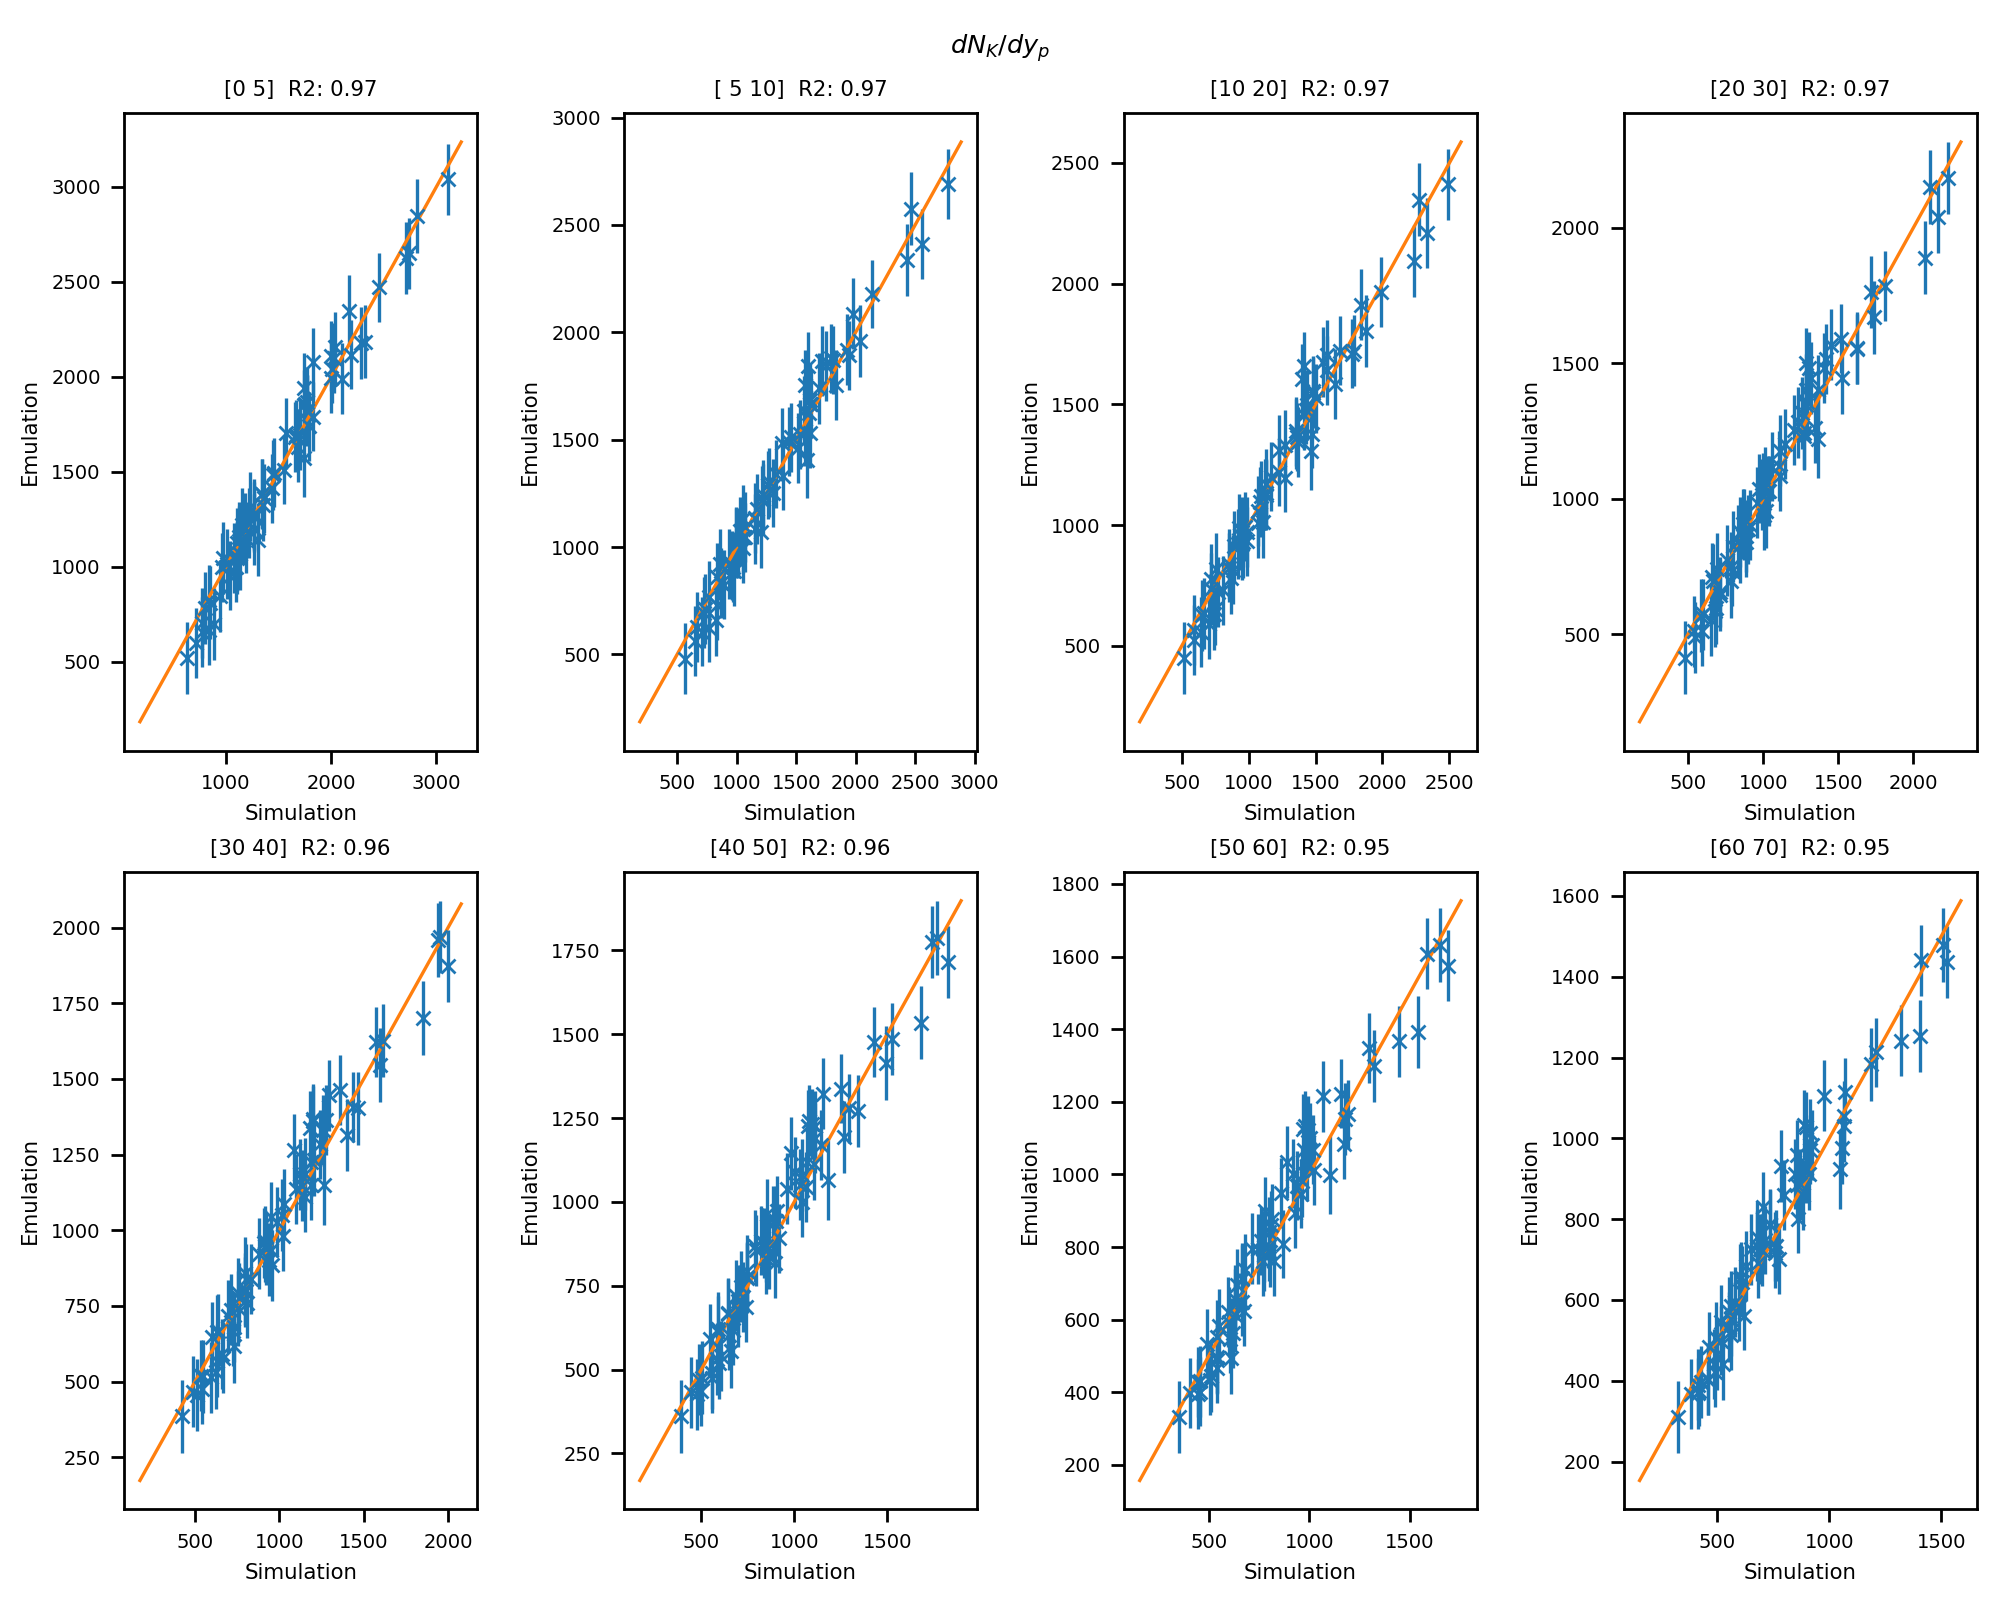
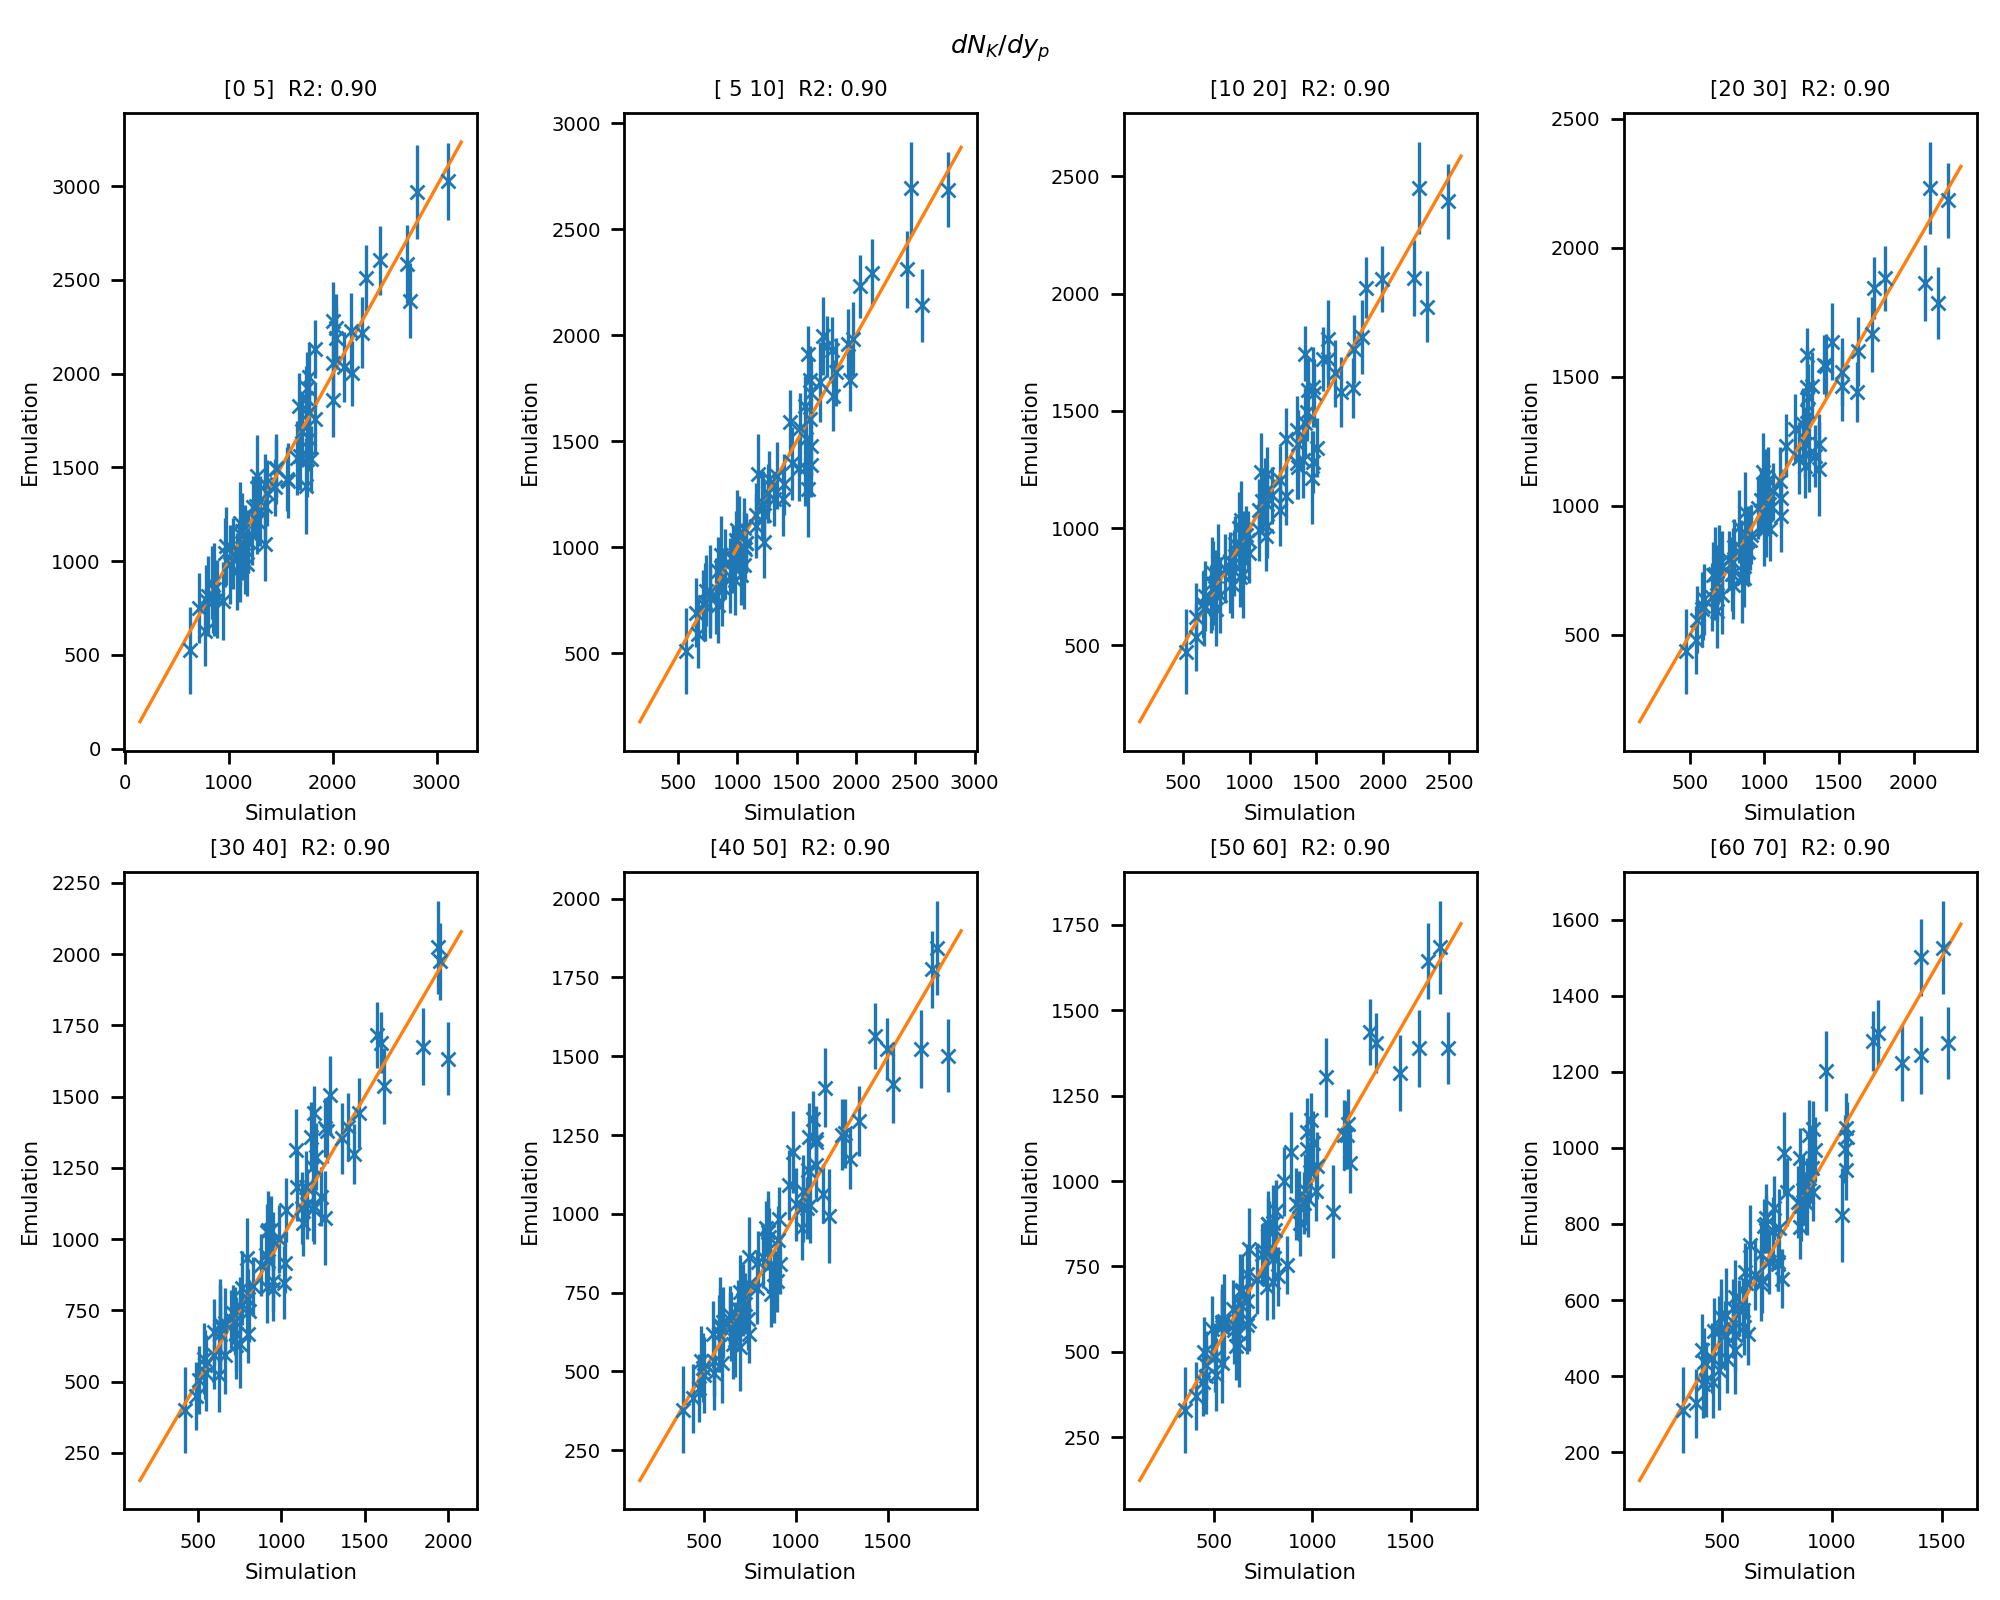
Including 2 benchmark scripts to compare Dan's PCGP and surmise's PCGP
Note: surmise's developsk branch is to develop PCSK, and it also includes PCGPR (PC GP with Dan's GP package)

diff --git a/vah_design/emulation/plotting.py b/vah_design/emulation/plotting.py
@@ -1,0 +1,125 @@
+#!/usr/bin/env python3
+# -*- coding: utf-8 -*-
+"""
+Created on Fri Feb 25 21:20:08 2022
+
+@author: ozgesurer
+"""
+import numpy as np
+from sklearn import metrics
+import uncertainty_toolbox as uct
+import seaborn as sns
+import matplotlib.pyplot as plt
+import sklearn
+
+# 8 bins
+ALICE_cent_bins = np.array([[0,5],[5,10],[10,20],[20,30],[30,40],[40,50],[50,60],[60,70]])
+
+obs_cent_list = {
+'Pb-Pb-2760': {
+    'dNch_deta' : ALICE_cent_bins,
+    'dET_deta' : np.array([[0, 2.5], [2.5, 5], [5, 7.5], [7.5, 10],
+                           [10, 12.5], [12.5, 15], [15, 17.5], [17.5, 20],
+                           [20, 22.5], [22.5, 25], [25, 27.5], [27.5, 30],
+                           [30, 32.5], [32.5, 35], [35, 37.5], [37.5, 40],
+                           [40, 45], [45, 50], [50, 55], [55, 60],
+                           [60, 65], [65, 70]]), # 22 bins
+    'dN_dy_pion'   : ALICE_cent_bins,
+    'dN_dy_kaon'   : ALICE_cent_bins,
+    'dN_dy_proton' : ALICE_cent_bins,
+    'dN_dy_Lambda' : np.array([[0,5],[5,10],[10,20],[20,40],[40,60]]), # 5 bins
+    'dN_dy_Omega'  : np.array([[0,10],[10,20],[20,40],[40,60]]), # 4 bins
+    'dN_dy_Xi'     : np.array([[0,10],[10,20],[20,40],[40,60]]), # 4 bins
+    'mean_pT_pion'   : ALICE_cent_bins,
+    'mean_pT_kaon'   : ALICE_cent_bins,
+    'mean_pT_proton' : ALICE_cent_bins,
+    'pT_fluct' : np.array([[0,5],[5,10],[10,15],[15,20], [20,25],[25,30],[30,35],[35,40], [40,45],[45,50],[50,55],[55,60]]), #12 bins
+    'v22' : ALICE_cent_bins,
+    'v32' : np.array([[0,5],[5,10],[10,20],[20,30], [30,40],[40,50]]), # 6 bins
+    'v42' : np.array([[0,5],[5,10],[10,20],[20,30], [30,40],[40,50]]), # 6 bins
+    }
+}
+
+obs_groups = {'yields' : ['dN_dy_pion', 'dN_dy_kaon', 'dN_dy_proton', 'dNch_deta', 'dET_deta'],
+              'mean_pT' : ['mean_pT_pion', 'mean_pT_kaon','mean_pT_proton', ],
+              'flows' : ['v22', 'v32', 'v42'],
+              'fluct' : ['pT_fluct']}
+
+obs_group_labels = {'yields' : r'$dN_\mathrm{id}/dy_p$, $dN_\mathrm{ch}/d\eta$, $dE_T/d\eta$ [GeV]',
+                    'mean_pT' : r'$ \langle p_T \rangle_\mathrm{id}$' + ' [GeV]',
+                    'fluct' : r'$\delta p_{T,\mathrm{ch}} / \langle p_T \rangle_\mathrm{ch}$',
+                    'flows' : r'$v^{(\mathrm{ch})}_k\{2\} $'}
+
+colors = ['b', 'g', 'r', 'c', 'm', 'tan', 'gray']
+
+obs_tex_labels = {'dNch_deta' : r'$dN_\mathrm{ch}/d\eta$',
+                  'dN_dy_pion' : r'$dN_{\pi}/dy_p$',
+                  'dN_dy_kaon' : r'$dN_{K}/dy_p$',
+                  'dN_dy_proton' : r'$dN_{p}/dy_p$',
+                  'dET_deta' : r'$dE_{T}/d\eta$',
+
+                  'mean_pT_proton' : r'$\langle p_T \rangle_p$',
+                  'mean_pT_kaon' : r'$\langle p_T \rangle_K$',
+                  'mean_pT_pion' : r'$\langle p_T \rangle_\pi$',
+
+                  'pT_fluct' : None,
+                  'v22' : r'$v^{(\mathrm{ch})}_2\{2\}$',
+                  'v32' : r'$v^{(\mathrm{ch})}_3\{2\}$',
+                  'v42' : r'$v^{(\mathrm{ch})}_4\{2\}$'}
+
+def plot_UQ(f, fhat, sigmahat, method='PCGP'):
+
+    index={}
+    st_index=0
+    for obs_group in  obs_groups.keys():
+        for obs in obs_groups[obs_group]:
+            n_centrality = len(obs_cent_list['Pb-Pb-2760'][obs])
+            index[obs]=[st_index,st_index+n_centrality]
+            st_index = st_index + n_centrality
+    
+    
+    r = metrics.r2_score(fhat.flatten(), f.flatten())
+    print('R2 test(sklearn) = ',r)
+    
+    
+    sns.set_context('paper', font_scale=0.8)
+    for obs in index.keys():
+        st = index[obs][0]
+        ed = index[obs][1]
+        nrw = int(np.ceil((ed-st)/4))
+        fig, axs = plt.subplots(nrows=nrw, ncols=4, figsize=(10, nrw*4), sharex=True, sharey=True)
+        for iii,ax in enumerate(axs.flatten()):
+            if iii>=ed-st:
+                continue;
+            ii = st + iii
+            mse = sklearn.metrics.mean_squared_error(f[:, ii], fhat[:, ii])
+            r = sklearn.metrics.r2_score(f[:, ii], fhat[:, ii])
+            uct.plot_calibration(fhat[:, ii], sigmahat[:, ii], f[:, ii], ax=ax)
+            cen_st = obs_cent_list['Pb-Pb-2760'][obs][iii]
+            ax.set_title(f'{cen_st}  R2: {r:.2f}')
+        fig.suptitle(obs_tex_labels[obs])
+        plt.tight_layout()
+        plt.savefig(f'{method}/{obs}.png', dpi=200)
+    
+    sns.set_context('paper', font_scale=0.8)
+    for obs in index.keys():
+        st = index[obs][0]
+        ed = index[obs][1]
+        nrw = int(np.ceil((ed-st)/4))
+        fig, axs = plt.subplots(nrows=nrw, ncols=4, figsize=(10, nrw*4), sharex=False, sharey=False)
+        for iii,ax in enumerate(axs.flatten()):
+            if iii>=ed-st:
+                continue;
+            ii=st+iii
+            mse = sklearn.metrics.mean_squared_error(f[:, ii], fhat[:, ii])
+            ax.errorbar(x=f[:,ii], y=fhat[:,ii], yerr=sigmahat[:, ii], fmt='x')
+            min_value = min([ax.get_xlim()[0], ax.get_ylim()[0]])
+            max_value = min([ax.get_xlim()[1], ax.get_ylim()[1]])
+            ax.plot([min_value, max_value], [min_value, max_value])
+            ax.set_xlabel('Simulation')
+            ax.set_ylabel('Emulation')
+            cen_st = obs_cent_list['Pb-Pb-2760'][obs][iii]
+            ax.set_title(f'{cen_st}  R2: {r:.2f}')
+        fig.suptitle(obs_tex_labels[obs])
+        plt.tight_layout()
+        plt.savefig(f'{method}/{obs}_emu_sim.png', dpi=200)

diff --git a/vah_design/emulation/split_data.py b/vah_design/emulation/split_data.py
@@ -1,0 +1,89 @@
+#!/usr/bin/env python3
+# -*- coding: utf-8 -*-
+"""
+Created on Fri Feb 25 23:30:06 2022
+
+@author: ozgesurer
+"""
+import numpy as np
+import seaborn as sns
+import pandas as pd
+import matplotlib.pyplot as plt
+from load import simulation
+
+def generate_split_data():
+# Load simulation data
+    simulation_files = ['mean_for_300_sliced_200_events_design',
+                        'mean_for_90_sliced_test_design_800_events_design',
+                        'mean_for_90_add_batch0_800_events_design',
+                        'mean_for_90_add_batch1_800_events_design',
+                        'mean_for_75_batch0_design_1600_events_design']
+    
+    df_list = [simulation(file) for file in simulation_files]
+    
+    # Map the design names to proper form
+    model_param_dsgn = ['$N$[$2.76$TeV]',
+                        '$p$',
+                        '$w$ [fm]',
+                        '$d_{\\mathrm{min}}$ [fm]',
+                        '$\\sigma_k$',
+                        '$T_{\\mathrm{sw}}$ [GeV]',
+                        '$T_{\\eta,\\mathrm{kink}}$ [GeV]',
+                        '$(\\eta/s)_{\\mathrm{kink}}$',
+                        '$a_{\\eta,\\mathrm{low}}$ [GeV${}^{-1}$]',
+                        '$a_{\\eta,\\mathrm{high}}$ [GeV${}^{-1}$]',
+                        '$(\\zeta/s)_{\\max}$',
+                        '$T_{\\zeta,c}$ [GeV]',
+                        '$w_{\\zeta}$ [GeV]',
+                        '$\\lambda_{\\zeta}$',
+                        '$R$']
+    
+    # Check the failure rates for each simulation file
+    N = 5
+    sns.set_context('paper', font_scale=0.8)
+    fig, ax = plt.subplots(1,N, figsize=(20,5))
+    for i in range(0, N):
+        sns.histplot(df_list[i].events, x='nevents', binwidth=10 , ax=ax[i])
+        ax[i].set_title(label=i)
+    plt.show()
+    
+    # Allowed error rate for events per design as a percentage
+    error_rate = 5
+    
+    # Split of simulation data into trainig and testing
+    train = [0, 2, 3, 4]
+    test = [1]
+    
+    f_train, f_er_train, theta_train = pd.DataFrame(), pd.DataFrame(), pd.DataFrame()
+    f_test, f_er_test, theta_test = pd.DataFrame(), pd.DataFrame(), pd.DataFrame()
+    
+    for i in range(0, N):
+        df = df_list[i].combine(error_rate)
+        if i in train:
+            f_train = pd.concat([f_train, df.iloc[:,17:140]], axis=0)
+            f_er_train = pd.concat([f_er_train, df.iloc[:,140:]], axis=0)
+            theta_train = pd.concat((theta_train, df.iloc[:,2:17]), axis=0)
+        elif i in test:
+            f_test = pd.concat([f_test, df.iloc[:,17:140]], axis=0)
+            f_er_test = pd.concat([f_er_test, df.iloc[:,140:]], axis=0)
+            theta_test = pd.concat((theta_test, df.iloc[:,2:17]), axis=0)
+    
+    # Print the shape of the data arrays
+    [print(dat.shape) for dat in [f_train, f_er_train, theta_train, f_test, f_er_test, theta_test]]
+    
+    # Load experimental data
+    experiment = pd.read_csv(filepath_or_buffer="../HIC_experimental_data/PbPb2760_experiment", index_col=0)
+    
+    # Gather what type of experimental data do we have.
+    exp_label = []
+    for i in experiment.columns:
+        words = i.split('[')
+        exp_label.append(words[0] + '_['+words[1])
+    
+    # Only keep simulation data that we have corresponding experimental data
+    f_train = np.array(f_train[exp_label])
+    f_test = np.array(f_test[exp_label])
+    theta_train = np.array(theta_train)
+    theta_test = np.array(theta_test)
+    
+    return f_train, f_test, theta_train, theta_test

diff --git a/vah_design/emulation/PCGPR_benchmark.py b/vah_design/emulation/PCGPR_benchmark.py
@@ -1,0 +1,51 @@
+#!/usr/bin/env python3
+# -*- coding: utf-8 -*-
+"""
+Created on Fri Feb 25 17:29:55 2022
+
+@author: ozgesurer
+"""
+import os
+import pickle
+import numpy as np
+import time
+from split_data import generate_split_data
+from surmise.emulation import emulator
+from plotting import plot_UQ
+
+####################################################
+# Note: This script takes on avg. 460 sec.
+####################################################
+seconds_st = time.time()
+
+# Note: Here we can create different funcs to split data into training and test
+f_train, f_test, theta_train, theta_test = generate_split_data()
+
+print(f_train.shape)
+print(f_test.shape)
+
+
+prior_min = [10, -0.7, 0.5, 0, 0.3, 0.135, 0.13, 0.01, -2, -1, 0.01, 0.12, 0.025, -0.8, 0.3]
+prior_max = [30, 0.7, 1.5, 1.7, 2, 0.165, 0.3, 0.2, 1, 2, 0.25, 0.3, 0.15, 0.8, 1]
+prior_dict = {'min': prior_min, 'max': prior_max}
+
+x_np = np.arange(0, f_train.shape[1])[:, None]
+x_np = x_np.astype('object')
+
+emu_tr = emulator(x=x_np,
+                  theta=theta_train,
+                  f=f_train.T,
+                  method='PCGPR',
+                  args={'epsilon': 0.1,
+                        'prior': prior_dict})
+
+
+pred_test = emu_tr.predict(x=x_np, theta=theta_test)
+pred_test_mean = pred_test.mean()
+pred_test_var = pred_test.var()
+
+plot_UQ(f_test, pred_test_mean.T, np.sqrt(pred_test_var.T), method='PCGPR')
+# print(emu_tr._info['emulist'])
+
+seconds_end = time.time()
+print('Total time:', seconds_end - seconds_st)

diff --git a/vah_design/emulation/PCGP_benchmark.py b/vah_design/emulation/PCGP_benchmark.py
@@ -1,0 +1,49 @@
+#!/usr/bin/env python3
+# -*- coding: utf-8 -*-
+"""
+Created on Fri Feb 25 17:29:55 2022
+
+@author: ozgesurer
+"""
+import os
+import pickle
+import numpy as np
+import time
+from split_data import generate_split_data
+from surmise.emulation import emulator
+from plotting import plot_UQ
+import pyximport
+pyximport.install(setup_args={"include_dirs":np.get_include()},
+                  reload_support=True)
+
+####################################################
+# Note: This script takes on avg. 354 sec.
+####################################################
+seconds_st = time.time()
+
+# Note: Here we can create different funcs to split data into training and test
+f_train, f_test, theta_train, theta_test = generate_split_data()
+
+print(f_train.shape)
+print(f_test.shape)
+
+
+x_np = np.arange(0, f_train.shape[1])[:, None]
+x_np = x_np.astype('object')
+
+emu_tr = emulator(x=x_np,
+                  theta=theta_train,
+                  f=f_train.T,
+                  method='PCGPwM',
+                  args={'epsilon': 0.1})
+
+
+pred_test = emu_tr.predict(x=x_np, theta=theta_test)
+pred_test_mean = pred_test.mean()
+pred_test_var = pred_test.var()
+
+plot_UQ(f_test, pred_test_mean.T, np.sqrt(pred_test_var.T), method='PCGP')
+# print(emu_tr._info['emulist'])
+
+seconds_end = time.time()
+print('Total time:', seconds_end - seconds_st)

diff --git a/vah_design/emulation/PCA_GP_emulation.py b/vah_design/emulation/PCA_GP_emulation.py
@@ -133,13 +133,16 @@ u, s, vh = np.linalg.svd(SS.fit_transform(y_train), full_matrices=True)
 print(f'shape of u {u.shape} shape of s {s.shape} shape of vh {vh.shape}')
 
 # How many PCs to keep?
-npc = 10 # number of PCs
+npc = 110 # number of PCs
 # print the explained raito of variance
 # https://stats.stackexchange.com/questions/2691/making-sense-of-principal-component-analysis-eigenvectors-eigenvalues
 fig, (ax1, ax2) = plt.subplots(1,2,figsize=(7,4))
 #importance = pca_analysis.explained_variance_
-importance = np.square(s[:npc]/math.sqrt(u.shape[0]-1))
+importance = np.square(s/math.sqrt(u.shape[0]-1))
 cumulateive_importance = np.cumsum(importance)/np.sum(importance)
+
+[c_id for c_id, c in enumerate(cumulateive_importance) if c > 0.99]
+
 idx = np.arange(1,1+len(importance))
 ax1.bar(idx,importance)
 ax1.set_xlabel("PC index")
